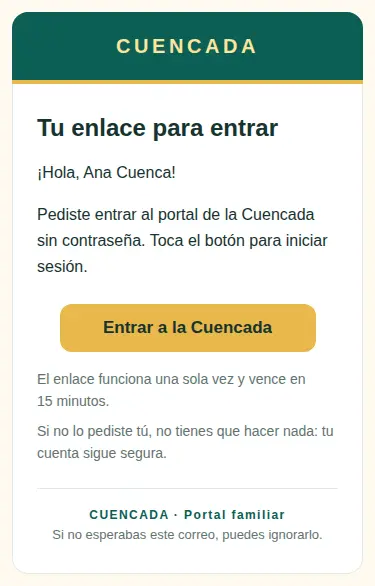
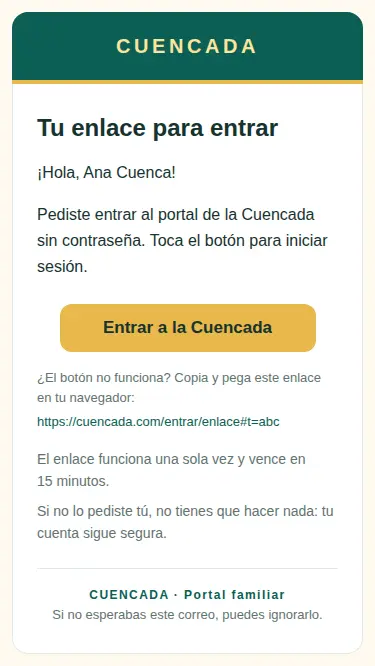
Add CTA fallback link and invite eventTitle to emails (WP-0.5)
Apply the orchestrator's answers to the WP-0.5 open questions:
- Show "¿El botón no funciona? Copia y pega este enlace en tu navegador:"
  plus the URL as text under every button, with word-break: break-all
  so long tokens wrap on mobile. The URL now appears twice in the HTML
  (button + fallback) and once in the plain text; tests updated.
- InviteEmail gains an optional eventTitle shown in the body, cleaned
  and escaped like the names.
- Document the confirmed /verificar route and that supportContact comes
  from the server's SUPPORT_EMAIL config (WP-0.4).
- Refresh the 375px screenshots.

Claude-Session: https://claude.ai/code/session_01Bj2xLmagfFJ5w53HEUn9Sj

Changed region(s): [[0.0293, 0.0, 0.968, 0.8294], [0.1467, 0.8601, 0.8507, 0.9522]]

diff --git a/packages/emails/src/render.test.tsx b/packages/emails/src/render.test.tsx
@@ -3,7 +3,7 @@ import { join } from "node:path";
 import { fileURLToPath } from "node:url";
 import { render } from "@react-email/render";
 import { describe, expect, it } from "vitest";
-import { FOOTER_BRAND, FOOTER_IGNORE } from "./content.js";
+import { CTA_FALLBACK_LABEL, FOOTER_BRAND, FOOTER_IGNORE } from "./content.js";
 import { EmailRenderError, EmailRenderErrorCode } from "./errors.js";
 import { EmailKind, type EmailTemplate, renderEmail } from "./render.js";
 import { InviteEmail } from "./templates/InviteEmail.js";
@@ -13,6 +13,10 @@ const XSS = "<script>alert(1)</script>";
 
 function countOccurrences(haystack: string, needle: string): number {
   return haystack.split(needle).length - 1;
+}
+
+function escapeRegExp(value: string): string {
+  return value.replace(/[.*+?^${}()|[\]\\]/g, "\\$&");
 }
 
 interface Case {
@@ -52,6 +56,7 @@ const cases: Case[] = [
       props: {
         inviterName: name,
         inviteeName: name,
+        eventTitle: name,
         acceptUrl: inviteUrl,
         expiresAt: EXPIRES,
       },
@@ -132,12 +137,21 @@ describe("renderEmail", () => {
       expect(email.text).toContain(FOOTER_IGNORE);
     });
 
-    it("includes the CTA URL exactly once in the HTML and once in the text", async () => {
+    it("includes the CTA URL exactly twice in the HTML (button + fallback) and once in the text", async () => {
       const email = await renderEmail(c.template);
       const url = c.ctaUrl ?? "";
-      expect(countOccurrences(email.html, url)).toBe(1);
+      expect(countOccurrences(email.html, url)).toBe(2);
+      expect(countOccurrences(email.html, `href="${url}"`)).toBe(1);
       expect(countOccurrences(email.text, url)).toBe(1);
-      expect(email.html).toContain(`href="${url}"`);
+    });
+
+    it("shows a copy-paste fallback link that wraps on mobile", async () => {
+      const email = await renderEmail(c.template);
+      const url = c.ctaUrl ?? "";
+      expect(email.html).toContain(CTA_FALLBACK_LABEL);
+      expect(email.html).toMatch(
+        new RegExp(`word-break:break-all[^>]*>${escapeRegExp(url)}<`),
+      );
     });
 
     it("throws EmailRenderError when the link is not https", async () => {
@@ -164,7 +178,7 @@ describe("renderEmail", () => {
       const email = await renderEmail(c.withUrl(dev), {
         allowInsecureLinks: true,
       });
-      expect(countOccurrences(email.html, dev)).toBe(1);
+      expect(countOccurrences(email.html, dev)).toBe(2);
       await expect(
         renderEmail(c.withUrl("http://evil.example/x"), {
           allowInsecureLinks: true,
@@ -280,7 +294,46 @@ describe("InviteEmail", () => {
       />,
     );
     expect(html).toContain("Aceptar invitación");
-    expect(countOccurrences(html, inviteUrl)).toBe(1);
+    expect(countOccurrences(html, inviteUrl)).toBe(2);
+  });
+
+  it("shows eventTitle in the body when present and omits the sentence otherwise", async () => {
+    const withEvent = await renderEmail({
+      kind: EmailKind.Invite,
+      props: {
+        inviterName: "Tía Lupita",
+        eventTitle: "Cuencada 2027 · Mérida",
+        acceptUrl: inviteUrl,
+        expiresAt: EXPIRES,
+      },
+    });
+    expect(withEvent.html).toContain("Cuencada 2027 · Mérida");
+    expect(withEvent.text).toContain(
+      "Ya estamos preparando la próxima reunión: Cuencada 2027 · Mérida.",
+    );
+    const without = await renderEmail({
+      kind: EmailKind.Invite,
+      props: {
+        inviterName: "Tía Lupita",
+        acceptUrl: inviteUrl,
+        expiresAt: EXPIRES,
+      },
+    });
+    expect(without.text).not.toContain("próxima reunión");
+  });
+
+  it("escapes HTML-like input in eventTitle", async () => {
+    const email = await renderEmail({
+      kind: EmailKind.Invite,
+      props: {
+        inviterName: "Tía Lupita",
+        eventTitle: XSS,
+        acceptUrl: inviteUrl,
+        expiresAt: EXPIRES,
+      },
+    });
+    expect(email.html).not.toContain("<script");
+    expect(email.html).toContain("&lt;script&gt;");
   });
 });
 

diff --git a/packages/emails/src/templates/InviteEmail.tsx b/packages/emails/src/templates/InviteEmail.tsx
@@ -17,6 +17,8 @@ export interface InviteEmailProps {
   inviterName: string;
   /** Name the admin typed for the invitee, if any. */
   inviteeName?: string | null;
+  /** Upcoming event shown in the body, e.g. "Cuencada 2027 · Mérida". Cleaned and escaped like names. */
+  eventTitle?: string | null;
   /** `https://cuencada.com/invitacion#t=<token>` (token in the fragment). */
   acceptUrl: string;
   /** When the invite expires (`Date` or ISO string). */
@@ -39,16 +41,25 @@ export function buildInviteContent(
   );
   const inviter = cleanName(props.inviterName) ?? "Alguien de la familia";
   const invitee = cleanName(props.inviteeName);
+  const eventTitle = cleanName(props.eventTitle);
   const expires = formatDateTime(props.expiresAt, "expiresAt", options);
+  const paragraphs = [
+    `${inviter} te invitó a unirte al portal familiar de la Cuencada, donde compartimos fotos, confirmamos asistencia y nos mantenemos en contacto toda la familia.`,
+  ];
+  if (eventTitle !== null) {
+    paragraphs.push(
+      endSentence(`Ya estamos preparando la próxima reunión: ${eventTitle}`),
+    );
+  }
+  paragraphs.push(
+    "Crea tu cuenta con el botón de abajo; solo toma un par de minutos.",
+  );
   return {
     subject: `${inviter} te invitó al portal de la Cuencada`,
     preview: `${inviter} te invitó al portal familiar de la Cuencada.`,
     heading: "¡Te esperamos en la Cuencada!",
     greeting: invitee === null ? "¡Hola!" : `¡Hola, ${invitee}!`,
-    paragraphs: [
-      `${inviter} te invitó a unirte al portal familiar de la Cuencada, donde compartimos fotos, confirmamos asistencia y nos mantenemos en contacto toda la familia.`,
-      "Crea tu cuenta con el botón de abajo; solo toma un par de minutos.",
-    ],
+    paragraphs,
     cta: { label: "Aceptar invitación", url },
     notes: [
       endSentence(`Esta invitación vence el ${expires}`),

diff --git a/packages/emails/src/components/EmailLayout.tsx b/packages/emails/src/components/EmailLayout.tsx
@@ -12,7 +12,12 @@ import {
   Text,
 } from "@react-email/components";
 import type { CSSProperties, ReactElement } from "react";
-import { type EmailContent, FOOTER_BRAND, FOOTER_IGNORE } from "../content.js";
+import {
+  CTA_FALLBACK_LABEL,
+  type EmailContent,
+  FOOTER_BRAND,
+  FOOTER_IGNORE,
+} from "../content.js";
 
 /** Brand colours from `apps/web/src/shared/styles/tokens.css` (emails cannot use CSS variables). */
 const color = {
@@ -112,6 +117,20 @@ const styles = {
     lineHeight: "22px",
     margin: "0 0 8px",
   },
+  fallbackLabel: {
+    color: color.muted,
+    fontSize: "13px",
+    lineHeight: "20px",
+    margin: "0 0 4px",
+  },
+  fallbackUrl: {
+    color: color.green,
+    fontSize: "13px",
+    lineHeight: "20px",
+    margin: "0 0 16px",
+    wordBreak: "break-all",
+    overflowWrap: "anywhere",
+  },
   warning: {
     backgroundColor: color.dangerSoft,
     borderLeft: `4px solid ${color.danger}`,
@@ -196,6 +215,12 @@ export function EmailLayout({
                   {content.cta.label}
                 </Button>
               </Section>
+            )}
+            {content.cta === null ? null : (
+              <>
+                <Text style={styles.fallbackLabel}>{CTA_FALLBACK_LABEL}</Text>
+                <Text style={styles.fallbackUrl}>{content.cta.url}</Text>
+              </>
             )}
             {content.notes.map((note) => (
               <Text key={note} style={styles.note}>

diff --git a/packages/emails/src/content.ts b/packages/emails/src/content.ts
@@ -1,5 +1,8 @@
 /** Footer wordmark printed in every email. */
 export const FOOTER_BRAND = "CUENCADA · Portal familiar";
+/** Shown under the button, followed by the raw URL, for older mail clients. */
+export const CTA_FALLBACK_LABEL =
+  "¿El botón no funciona? Copia y pega este enlace en tu navegador:";
 /** Footer reassurance line printed in every email. */
 export const FOOTER_IGNORE = "Si no esperabas este correo, puedes ignorarlo.";
 

diff --git a/packages/emails/src/index.ts b/packages/emails/src/index.ts
@@ -5,6 +5,7 @@ export {
 export {
   type EmailContent,
   type EmailCta,
+  CTA_FALLBACK_LABEL,
   FOOTER_BRAND,
   FOOTER_IGNORE,
   renderPlainText,

diff --git a/docs/coordination/WP-0.5.md b/docs/coordination/WP-0.5.md
@@ -3,14 +3,14 @@ Owner: Frontend + UI/UX · Reviewers: TL · Branch: wp/0.5-emails · PR: # (not 
 
 ## Scope
 - New workspace package `@cuencada/emails` (`packages/emails`): ESM, TS strict, built by `tsc` to `dist/` with `module`/`moduleResolution: NodeNext` and `.js` import specifiers, so `apps/server` (NodeNext) can import it directly. React 19 (same major as `apps/web`), `@react-email/components` 1.0.12, `@react-email/render` 2.1.0 — all older than the 7-day `minimumReleaseAge`.
-- Five Spanish templates sharing one layout (`EmailLayout`): single column ≤ 600px, green header with gold wordmark, white card, one gold bulletproof button (14px padding + 24px line height = 48px tall, MSO padding hacks from React Email), muted small print, optional red warning box, footer "CUENCADA · Portal familiar" + "Si no esperabas este correo, puedes ignorarlo."
-  - `InviteEmail` — `{ inviterName, inviteeName?, acceptUrl, expiresAt }`
+- Five Spanish templates sharing one layout (`EmailLayout`): single column ≤ 600px, green header with gold wordmark, white card, one gold bulletproof button (14px padding + 24px line height = 48px tall, MSO padding hacks from React Email), a copy-paste fallback link under the button, muted small print, optional red warning box, footer "CUENCADA · Portal familiar" + "Si no esperabas este correo, puedes ignorarlo."
+  - `InviteEmail` — `{ inviterName, inviteeName?, eventTitle?, acceptUrl, expiresAt }` (`eventTitle`, e.g. "Cuencada 2027 · Mérida", adds "Ya estamos preparando la próxima reunión: …" to the body)
   - `MagicLinkEmail` — `{ displayName, loginUrl, expiresInMinutes }`
   - `PasswordResetEmail` — `{ displayName, resetUrl, expiresInMinutes }`
   - `PasswordChangedEmail` — `{ displayName, changedAt, supportContact }` (no button; "Si no fuiste tú…" warning)
   - `VerifyEmail` — `{ displayName, verifyUrl, expiresInMinutes }`
 - Plain-text alternative generated from the same content object as the HTML, so they never drift.
-- 30 Vitest tests (`packages/emails/src/render.test.tsx`); standalone `vitest.config.ts`.
+- 36 Vitest tests (`packages/emails/src/render.test.tsx`); standalone `vitest.config.ts`.
 - Screenshots at 375px: `docs/ux/screenshots/emails/*.webp`.
 - `biome.json`: ignore `packages/*/dist`.
 
@@ -50,7 +50,7 @@ interface RenderedEmail { subject: string; html: string; text: string }
 
 Errors: `EmailRenderError { code, field, message }`, with codes `INVALID_URL | INSECURE_URL | INVALID_DATE | INVALID_DURATION | INVALID_OPTION`. The message and `toJSON()` **never include the offending value**, because URLs carry single-use tokens. That makes the error safe to log with Pino.
 
-Also exported: the React components (for previews), `build*Content` (pure copy builders), `renderPlainText`, and the helpers `assertSafeUrl`, `cleanName`, `formatDateTime`, `formatDuration`, `endSentence` and `resolveOptions`.
+Also exported: the React components (for previews), `build*Content` (pure copy builders), `renderPlainText`, the copy constants `CTA_FALLBACK_LABEL`, `FOOTER_BRAND` and `FOOTER_IGNORE`, and the helpers `assertSafeUrl`, `cleanName`, `formatDateTime`, `formatDuration`, `endSentence` and `resolveOptions`.
 
 ## How WP-0.4 / T1 calls it (server Mailer)
 
@@ -60,7 +60,7 @@ Also exported: the React components (for previews), `build*Content` (pure copy b
    const acceptUrl = new URL("/invitacion", config.APP_BASE_URL);
    acceptUrl.hash = `t=${rawToken}`; // rawToken is never stored; only hashToken(rawToken) is
    ```
-   Paths: `/invitacion#t=…`, `/entrar/enlace#t=…`, `/restablecer#t=…`, and for verify-email `/verificar#t=…` (the route name is still open, see below).
+   Paths: `/invitacion#t=…`, `/entrar/enlace#t=…`, `/restablecer#t=…`, and `/verificar#t=…` for verify-email (confirmed; WP-0.6 adds the SPA route).
 3. Mailer sketch (`apps/server/src/lib/mailer.ts`):
    ```ts
    import { renderEmail, type EmailTemplate } from "@cuencada/emails";
@@ -76,13 +76,14 @@ Also exported: the React components (for previews), `build*Content` (pure copy b
      };
    }
    ```
-   The fake Mailer from WP-0.1 can call `renderEmail` too and record `{ to, kind, subject, text }`. Tests can then pull the URL out of `text`: it is the line after `"<CTA label>:"`, and it appears exactly once.
+   The fake Mailer from WP-0.1 can call `renderEmail` too and record `{ to, kind, subject, text }`. Tests can then pull the URL out of `text`: it is the line after `"<CTA label>:"`, and it appears exactly once in the text. In the HTML it appears twice: the button `href` and the visible fallback.
 4. Set `allowInsecureLinks` only when `NODE_ENV !== "production"`. In production a non-https `APP_BASE_URL` makes `renderEmail` throw, which is intended. Catch the error, log `err.toJSON()` and still answer the request generically, so nothing leaks about whether the account exists.
-5. Pass only display names. Never put another person's email address in the props. `inviterName` is the inviter's `displayName`. `supportContact` is a configured support address such as `admin@cuencada.com`.
+5. Pass only display names. Never put another person's email address in the props. `inviterName` is the inviter's `displayName`. `supportContact` stays a required prop: the server passes `config.SUPPORT_EMAIL`, a new setting that WP-0.4 adds with the default `admin@cuencada.com`. `eventTitle` is optional; pass the upcoming Cuencada's title when there is one.
 6. Names are cleaned (control characters and CR/LF stripped, whitespace collapsed, capped at 80 characters), so a display name cannot inject header lines through the subject. React escapes the HTML, and there is no `dangerouslySetInnerHTML`; a test enforces that.
 
 ## Decisions
-- **The CTA URL appears exactly once** in the HTML (the button `href`) and once in the text. There is no visible "copy this link" fallback in the HTML. The React Email `<Button>` is the bulletproof (MSO-padded) anchor, and the text part carries the raw link for clients that cannot show HTML.
+- **Fallback link.** Under the button the email shows "¿El botón no funciona? Copia y pega este enlace en tu navegador:" and then the URL as plain text (not a second anchor). Many relatives use older mail clients. The URL text uses `word-break: break-all`, so long tokens wrap at 375px. The URL therefore appears exactly twice in the HTML (once as the button `href`, once as text) and once in the plain-text part. The React Email `<Button>` is the bulletproof, MSO-padded anchor.
+- **Formatting** follows what `biome.json` enforces, which is Biome's defaults including trailing commas. `biome check packages/emails` is clean. `packages/types` predates biome formatting, so it looks different; I did not hand-adjust either one.
 - **PasswordChanged has no button.** A security notice should not invite one-click actions. It names the support contact as text, not a `mailto:` link.
 - **Dates** use `es-MX` in `America/Merida` and read as "lunes 14 de septiembre · 7:40 a.m.". The weekday is lowercase because the date is always mid-sentence. Non-breaking spaces keep the time and TTL together on 375px screens.
 - **No external images by default.** The header is a text wordmark (gold `#ffe39a` on green `#0b5e55`, 6.08:1). `logoUrl` is optional and validated like a link. There are no tracking pixels.
@@ -90,9 +91,10 @@ Also exported: the React components (for previews), `build*Content` (pure copy b
 - **No `email dev` preview server.** The `react-email` CLI pulls in Next.js, which is heavy. Previews can be rendered with `renderEmail` plus a headless browser instead; that is how the screenshots were made.
 
 ## Open questions (→ orchestrator)
-1. What is the SPA route for email verification? I assumed `/verificar#t=…` in docs and tests; the package itself accepts any https URL.
-2. Should `supportContact` be a configured env value (for example `SUPPORT_EMAIL`), or always `admin@cuencada.com`?
-3. Do we want a visible copy-paste fallback link under the button? It would make the URL appear twice in the HTML, which conflicts with the "exactly once" acceptance check.
-4. Should the invite carry the Cuencada year or event name? It is not in the props yet.
+None open. The orchestrator's answers:
+1. **Verify route:** `/verificar#t=…` is confirmed, and WP-0.6 adds the route.
+2. **supportContact:** stays a required prop. The server fills it from `SUPPORT_EMAIL` (default `admin@cuencada.com`), which WP-0.4 adds.
+3. **Fallback link:** yes. It is added under the button with `word-break: break-all`, and the test now expects the URL twice in the HTML and once in the text.
+4. **Invite context:** `InviteEmail` gains an optional `eventTitle`, shown in the body and cleaned and escaped like the names.
 
 ## Review log
